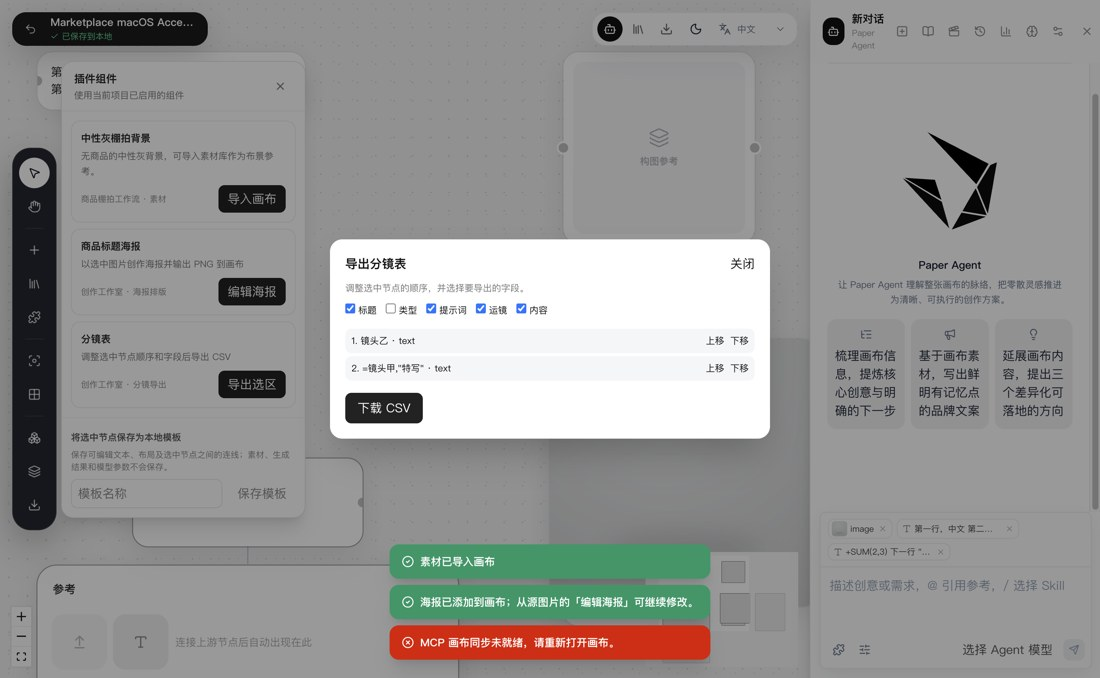
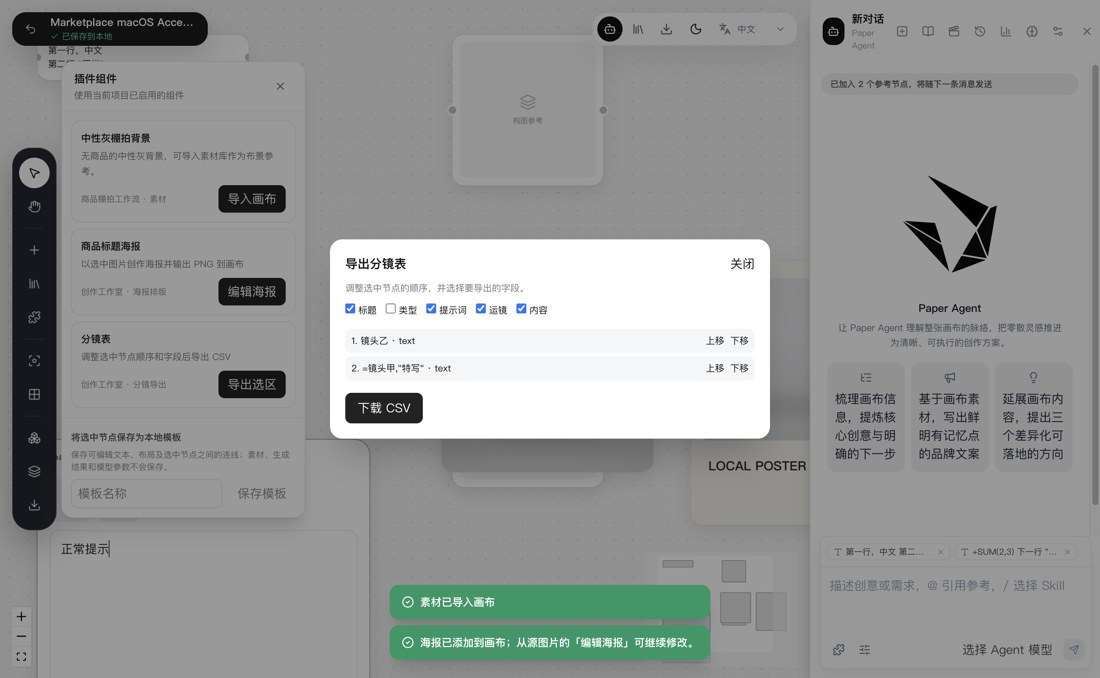
fix(canvas): register the freshly loaded canvas when reopening a desktop project

diff --git a/pi-paper-web/src/features/canvas/CanvasPage.tsx b/pi-paper-web/src/features/canvas/CanvasPage.tsx
@@ -65,6 +65,7 @@ import {
 import type { DesktopCanvas, DesktopMcpCanvasFlushRequest, DesktopMcpEvent, DesktopMcpPendingAction, DesktopMcpProviderInputRequest, DesktopProviderConfiguration } from '@/desktop/desktop-bridge'
 import { providerConfigurationRefreshQueryKeys } from '@/features/providers/providerConfigurationEvents'
 import { canvasMotionDuration, CANVAS_MOTION, markNodeArrival, useLayoutMotion, useSoftValue } from './canvasMotion'
+import { canvasPageQueryOptions, canHydrateCanvasPage } from './canvasPageQuery'
 
 const saveDebounce = 500
 const edgeTypes = { default: GenerationReferenceEdge }
@@ -247,20 +248,24 @@ function CanvasPageInner({ canvasId }: { canvasId: string }) {
     return () => window.removeEventListener('vp-open-node-plugin-presets', openNodePresets)
   }, [])
 
+  const desktopMode = isDesktopRuntime()
+  const [desktopHydratedCanvasId, setDesktopHydratedCanvasId] = useState<string | null>(null)
   const {
     data: loadedCanvas,
     isLoading,
     isError,
+    isSuccess,
+    isFetchedAfterMount,
     error,
     refetch,
-  } = useQuery({
-    queryKey: ['canvas', canvasId],
-    queryFn: () => loadCanvasPort(canvasId),
-    retry: 1,
-  })
-  const detail = loadedCanvas?.detail
-  const desktopProjectId = loadedCanvas?.projectId
-  const desktopMode = isDesktopRuntime()
+  } = useQuery(canvasPageQueryOptions(canvasId, desktopMode, loadCanvasPort))
+  // Cached snapshots remain useful to Web, but desktop must not display or
+  // register one until this page's local-core read has completed successfully.
+  const canHydrate = canHydrateCanvasPage(desktopMode, { isFetchedAfterMount, isSuccess })
+  const detail = canHydrate ? loadedCanvas?.detail : undefined
+  const desktopProjectId = canHydrate ? loadedCanvas?.projectId : undefined
+  const desktopCanvasMatches = !desktopMode || Boolean(desktopProjectId && detail && sid(detail.canvas.id) === canvasId)
+  const desktopPageHydrated = !desktopMode || Boolean(canHydrate && desktopHydratedCanvasId === canvasId && desktopCanvasMatches)
 
   const changeMcpCanvasBarrierPhase = useCallback((phase: 'idle' | 'pending' | 'active') => {
     mcpCanvasBarrierPhaseRef.current = phase
@@ -336,11 +341,12 @@ function CanvasPageInner({ canvasId }: { canvasId: string }) {
     // any stale dirty flag so a refresh (or an Agent write) cannot trigger a
     // full-save/version bump loop immediately after hydration.
     setDirty(false)
+    if (desktopMode && desktopCanvasMatches) setDesktopHydratedCanvasId(canvasId)
     window.setTimeout(() => {
       hydratingRef.current = false
     }, 0)
     // 仅在画布 detail 变化时整表 hydrate；models 单独注入，避免覆盖已编辑的 prompt
-  }, [canvasId, detail, setCanvas, setNodes, setEdges, setGroups, setStacks, setDirty, selectNode, selectGroup])
+  }, [canvasId, detail, desktopCanvasMatches, desktopMode, setCanvas, setNodes, setEdges, setGroups, setStacks, setDirty, selectNode, selectGroup])
 
   useEffect(() => {
     if (!models) return
@@ -616,7 +622,7 @@ function CanvasPageInner({ canvasId }: { canvasId: string }) {
 
   useEffect(() => {
     const bridge = window.vibepaperDesktop
-    if (!desktopMode || !bridge || !desktopProjectId) return
+    if (!desktopMode || !desktopPageHydrated || !bridge || !desktopProjectId) return
     let disposed = false
     const barrierRequests = mcpCanvasBarrierRequestsRef.current
     const scopeKey = `${desktopProjectId}:${canvasId}`
@@ -824,7 +830,7 @@ function CanvasPageInner({ canvasId }: { canvasId: string }) {
       void bridge.setMcpCanvasReady({ projectId: desktopProjectId, canvasId, ready: false }).catch(() => undefined)
     }
   }, [
-    canvasId, changeMcpCanvasBarrierPhase, desktopMode, desktopProjectId, flushDesktopEdits,
+    canvasId, changeMcpCanvasBarrierPhase, desktopMode, desktopPageHydrated, desktopProjectId, flushDesktopEdits,
     models, queryClient, selectGroup, selectNode, setAgentOpen, setCanvas, setDirty, setEdges, setGroups, setNodes, setSavedVersion, setStacks,
   ])
 
@@ -2106,7 +2112,7 @@ function CanvasPageInner({ canvasId }: { canvasId: string }) {
     [stacks, nodes],
   )
 
-  if (isLoading) {
+  if (isLoading || (desktopMode && !isError && (!canHydrate || (desktopCanvasMatches && !desktopPageHydrated)))) {
     return (
       <div className="flex h-screen flex-col items-center justify-center gap-3 bg-[#f2f2f2]">
         <Spinner className="h-8 w-8" />
@@ -2115,7 +2121,7 @@ function CanvasPageInner({ canvasId }: { canvasId: string }) {
     )
   }
 
-  if (isError || !detail) {
+  if (isError || !detail || !desktopCanvasMatches) {
     const msg = error instanceof Error ? error.message : uiText("画布加载失败")
     return (
       <div className="flex h-screen flex-col items-center justify-center gap-4 bg-[#f2f2f2] px-6 text-center">

diff --git a/pi-paper-web/src/features/canvas/canvasPageQuery.test.ts b/pi-paper-web/src/features/canvas/canvasPageQuery.test.ts
@@ -1,0 +1,93 @@
+import { QueryClient, QueryObserver } from '@tanstack/react-query'
+import { describe, expect, it, vi } from 'vitest'
+import { canHydrateCanvasPage, canvasPageQueryOptions } from './canvasPageQuery'
+
+function deferred<T>() {
+  let resolve!: (value: T) => void
+  let reject!: (error: Error) => void
+  const promise = new Promise<T>((done, fail) => { resolve = done; reject = fail })
+  return { promise, resolve, reject }
+}
+
+function client() {
+  return new QueryClient({ defaultOptions: { queries: { retry: false } } })
+}
+
+describe('desktop canvas reopen', () => {
+  it('waits for this mount to read the current version before allowing hydration', async () => {
+    const qc = client()
+    const read = deferred<{ version: number }>()
+    const load = vi.fn(() => read.promise)
+    const options = { ...canvasPageQueryOptions('canvas-1', true, load), retry: false }
+    qc.setQueryData(options.queryKey, { version: 4 })
+    const observer = new QueryObserver(qc, options)
+    const unsubscribe = observer.subscribe(() => {})
+    try {
+      expect(load).toHaveBeenCalledOnce()
+      expect(observer.getCurrentResult().data).toEqual({ version: 4 })
+      expect(canHydrateCanvasPage(true, observer.getCurrentResult())).toBe(false)
+      read.resolve({ version: 7 })
+      await vi.waitFor(() => expect(canHydrateCanvasPage(true, observer.getCurrentResult())).toBe(true))
+      expect(observer.getCurrentResult().data).toEqual({ version: 7 })
+
+      // Subsequent authoritative changes on the existing key stay usable; a
+      // version update does not send the page back into its initial gate.
+      qc.setQueryData(options.queryKey, { version: 8 })
+      expect(canHydrateCanvasPage(true, observer.getCurrentResult())).toBe(true)
+      expect(observer.getCurrentResult().data).toEqual({ version: 8 })
+    } finally {
+      unsubscribe()
+      qc.clear()
+    }
+  })
+
+  it('does not reuse a previous page\'s in-flight read after it unmounts', async () => {
+    const qc = client()
+    const earlier = deferred<{ version: number }>()
+    const current = deferred<{ version: number }>()
+    const load = vi.fn().mockReturnValueOnce(earlier.promise).mockReturnValueOnce(current.promise)
+    const options = { ...canvasPageQueryOptions('canvas-1', true, load), retry: false }
+    qc.setQueryData(options.queryKey, { version: 4 })
+    const previousPage = new QueryObserver(qc, options)
+    const disposePrevious = previousPage.subscribe(() => {})
+    expect(load).toHaveBeenCalledTimes(1)
+    disposePrevious()
+    const reopenedPage = new QueryObserver(qc, options)
+    const disposeReopened = reopenedPage.subscribe(() => {})
+    try {
+      expect(load).toHaveBeenCalledTimes(2)
+      earlier.resolve({ version: 5 })
+      await Promise.resolve()
+      await Promise.resolve()
+      expect(canHydrateCanvasPage(true, reopenedPage.getCurrentResult())).toBe(false)
+      expect(reopenedPage.getCurrentResult().data).toEqual({ version: 4 })
+      current.resolve({ version: 7 })
+      await vi.waitFor(() => expect(canHydrateCanvasPage(true, reopenedPage.getCurrentResult())).toBe(true))
+      expect(reopenedPage.getCurrentResult().data).toEqual({ version: 7 })
+    } finally {
+      disposeReopened()
+      qc.clear()
+    }
+  })
+
+  it('keeps a failed fresh desktop read closed and retains the Web cache contract', async () => {
+    const qc = client()
+    const read = deferred<{ version: number }>()
+    const options = { ...canvasPageQueryOptions('canvas-1', true, () => read.promise), retry: false }
+    qc.setQueryData(options.queryKey, { version: 4 })
+    const observer = new QueryObserver(qc, options)
+    const unsubscribe = observer.subscribe(() => {})
+    try {
+      read.reject(new Error('load failed'))
+      await vi.waitFor(() => expect(observer.getCurrentResult().isError).toBe(true))
+      expect(canHydrateCanvasPage(true, observer.getCurrentResult())).toBe(false)
+      const webOptions = canvasPageQueryOptions('canvas-1', false, async () => ({ version: 10 }))
+      expect(webOptions.queryKey).toEqual(options.queryKey)
+      expect(canHydrateCanvasPage(false, observer.getCurrentResult())).toBe(true)
+      expect(qc.getQueryData(webOptions.queryKey)).toEqual({ version: 4 })
+    } finally {
+      unsubscribe()
+      qc.clear()
+    }
+  })
+})

diff --git a/pi-paper-web/src/features/canvas/canvasPageQuery.ts b/pi-paper-web/src/features/canvas/canvasPageQuery.ts
@@ -1,0 +1,22 @@
+import type { QueryFunctionContext } from '@tanstack/react-query'
+
+export function canvasPageQueryOptions<T>(canvasId: string, desktop: boolean, load: (id: string) => Promise<T>) {
+  return {
+    queryKey: ['canvas', canvasId] as const,
+    queryFn: async (context: QueryFunctionContext<readonly ['canvas', string]>) => {
+      if (!desktop) return load(canvasId)
+      // Consume the signal so an in-flight read from the previous page is
+      // cancelled on unmount and cannot satisfy this page's fresh query.
+      const signal = context.signal
+      const snapshot = await load(canvasId)
+      if (signal.aborted) throw new DOMException('Canvas load cancelled', 'AbortError')
+      return snapshot
+    },
+    retry: 1,
+    ...(desktop ? { refetchOnMount: 'always' as const } : {}),
+  }
+}
+
+export function canHydrateCanvasPage(desktop: boolean, state: { isFetchedAfterMount: boolean; isSuccess: boolean }) {
+  return !desktop || (state.isFetchedAfterMount && state.isSuccess)
+}

diff --git a/docs/verification/2026-11-02-desktop-marketplace/README.md b/docs/verification/2026-11-02-desktop-marketplace/README.md
@@ -86,7 +86,7 @@ node pi-paper-desktop/scripts/smoke-installed-marketplace-macos.cjs \
 
 ### Mac 安装版海报 PNG 与分镜 CSV（2026-11-02）
 
[2 lines of base64/hex data omitted]
 
 | 验收对象 | 实际文件和读回结果 |
 | --- | --- |
@@ -94,6 +94,8 @@ node pi-paper-desktop/scripts/smoke-installed-marketplace-macos.cjs \
 | 文本分镜 | 选中两个文本节点，调整字段和镜头顺序，下载 237 字节 CSV。核对 UTF-8 BOM、行序、字段顺序、中文、逗号、引号、单元格内换行以及公式前缀保护。独立 CSV 解析器读出两行数据，其余节点未混入。[文本 CSV](macos-exports/storyboard-exports/storyboard-text.csv) · [导出选区](macos-exports/storyboard-selection.jpg) |
 | 导演分镜 | 分别选择静态和动态导演节点，单独导出运镜列。静态文件含方向、俯仰与距离；动态文件另含 -30° 到 30° 的起止视角和 6 秒时长。重启后项目的原文本、相机和运镜参数均匹配，三份下载文件的 SHA-256 与首次导出一致。[静态 CSV](macos-exports/storyboard-exports/storyboard-director-static.csv) · [动态 CSV](macos-exports/storyboard-exports/storyboard-director-motion.csv) |
 
-旧包实测曾将有运镜的导演镜头导出为空单元格。现保留普通文本运镜，并按导演节点实际保存的结构输出机位和运动参数。海报在全图保存时也曾覆盖源图的已有提示词字段。修复后，桌面导入素材沿用 Local Core 返回的节点，原图提示词编辑和海报保存同步写入存储所读取的字段。回归覆盖数据镜像不一致及并发编辑，完整前端测试 177 项通过。
+旧包实测曾将有运镜的导演镜头导出为空单元格。现保留普通文本运镜，并按导演节点实际保存的结构输出机位和运动参数。海报在全图保存时也曾覆盖源图的已有提示词字段。修复后，桌面导入素材沿用 Local Core 返回的节点，原图提示词编辑和海报保存同步写入存储所读取的字段。回归覆盖数据镜像不一致及并发编辑，完整前端测试 180 项通过。
+
+复核首次导出截图时还发现，快速重开同一项目会用缓存版本 4 登记 MCP，而海报保存后实际已到版本 7。桌面现在等待本次画布读取成功并载入后再登记，保留 Main 的版本校验。最终安装版在每次重开时均从 Main 读到对应画布已就绪，未显示同步错误；再次导出的 PNG 和三份 CSV 与首次验收逐字节一致。
 
 复验时用 Node 24 ARM64 运行 `pi-paper-desktop/scripts/smoke-installed-marketplace-macos.cjs`，在前述 Mac 验收命令末尾加 `--exports`。脚本将真实 PNG 和三份 CSV 保存到指定证据目录。PNG 来自项目素材，CSV 通过原下载按钮生成，仅将下载目的地定向到隔离目录。
